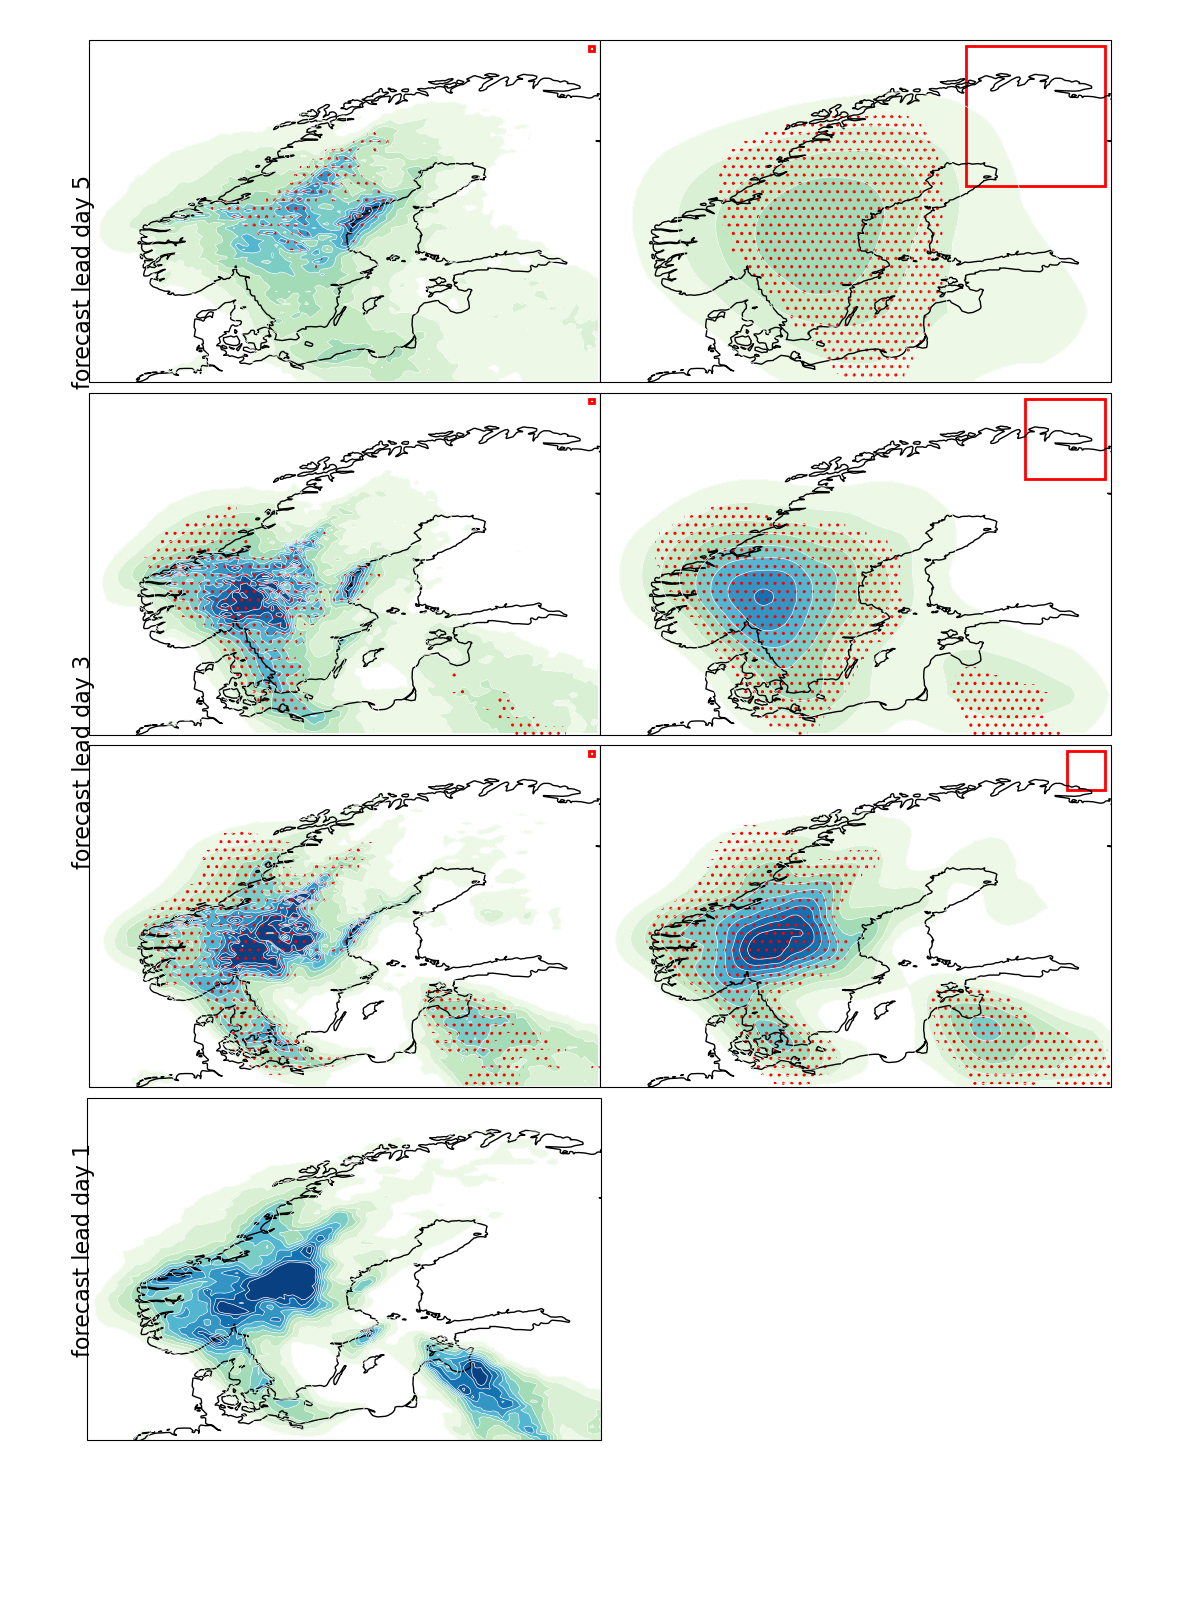
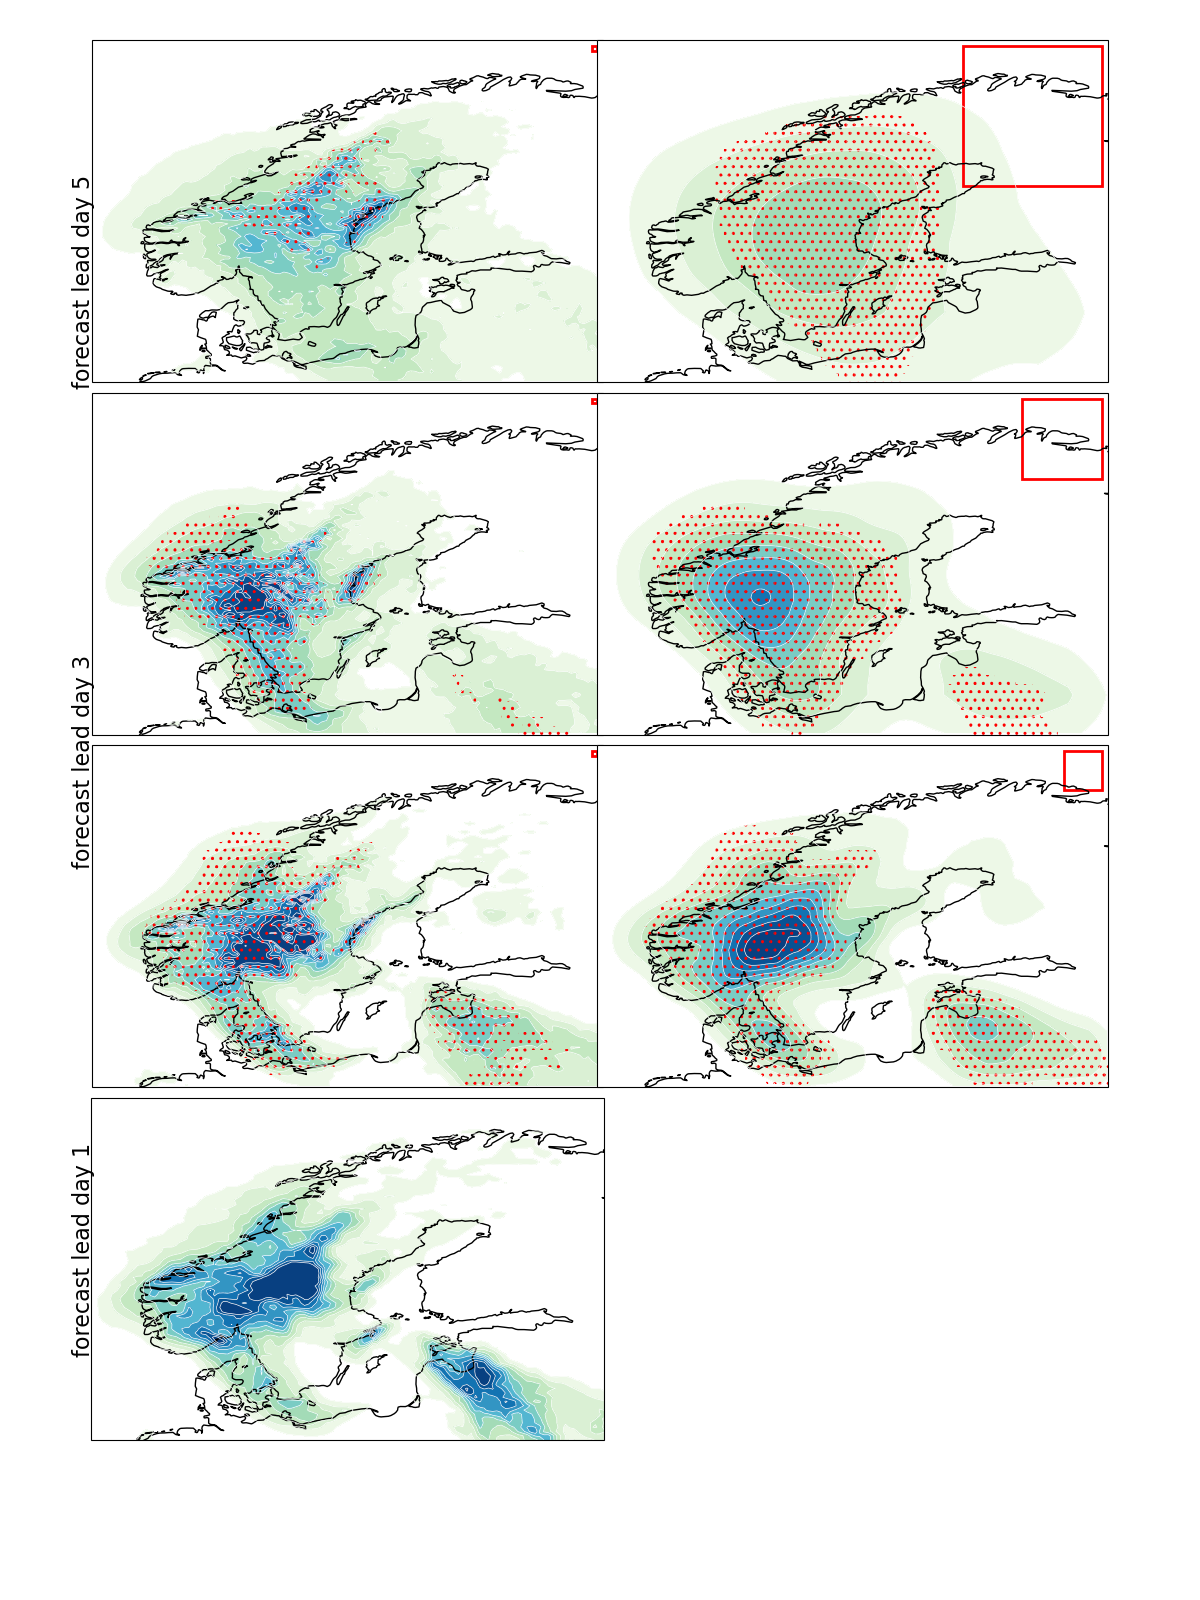
update

diff --git a/code/plot/test.py b/code/plot/test.py
@@ -87,7 +87,7 @@ figsize  = np.array([12,16])
 fig,ax   = plt.subplots(nrows=4,ncols=2,figsize=(figsize[0],figsize[1]),subplot_kw={'projection': ccrs.PlateCarree(central_longitude=0.0)})
 ax       = ax.ravel()
 
-fig.subplots_adjust(right=0.95, left=0.05,top=0.975,bottom=0.1,hspace=0.03,wspace=-0.1)
+fig.subplots_adjust(right=0.95, left=0.05,top=0.975,bottom=0.1,hspace=0.03,wspace=-0.12)
 
 title1 = r'a) 1 gridpoint$^2$ precision'
 title2 = r'b) 33 gridpoint$^2$ precision'
